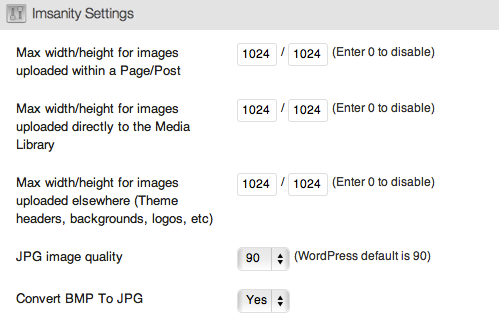
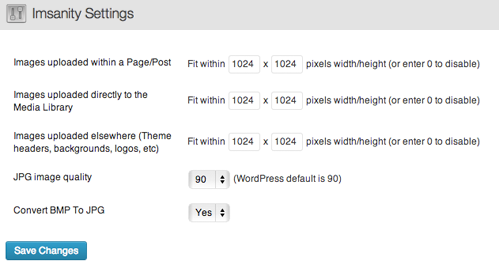
udpate to release 2.2.4
git-svn-id: https://plugins.svn.wordpress.org/imsanity/trunk@805159 b8457f37-d9ea-0310-8a92-e5e31aec5664

diff --git a/scripts/imsanity.js b/scripts/imsanity.js
@@ -2,6 +2,10 @@
  * imsanity admin javascript functions
  */
 
+// this must run inline so that the script is detected correctly
+var imsanity_scripts = document.getElementsByTagName("script");
+var imsanity_script_url = imsanity_scripts[imsanity_scripts.length-1].src;
+
 /**
  * Begin the process of re-sizing all of the checked images
  */
@@ -20,6 +24,16 @@ function imsanity_resize_images()
 	// start the recursion
 	imsanity_resize_next(images,0);
 }
+
+/**
+ * Detect the base url for the imsanity plugin folder
+ * @returns
+ */
+function imsanity_get_base_url()
+{
+	return imsanity_script_url.substring(0,imsanity_script_url.indexOf('scripts/imsanity.js'));
+}
+
 
 /** 
  * recursive function for resizing images
@@ -74,7 +88,7 @@ function imsanity_load_images(container_id)
 
 	var target = jQuery('#imsanity_target');
 
-	target.html('<div><image src="'+ imsanity_plugin_url  +'/images/ajax-loader.gif" style="margin-bottom: .25em; vertical-align:middle;" /> Examining existing attachments.  This may take a few moments...</div>');
+	target.html('<div><image src="'+ imsanity_get_base_url()  +'images/ajax-loader.gif" style="margin-bottom: .25em; vertical-align:middle;" /> Examining existing attachments.  This may take a few moments...</div>');
 
 	target.animate({height: [250,'swing']},500, function()
 	{

diff --git a/settings.php b/settings.php
@@ -216,26 +216,26 @@ function imsanity_network_settings()
 	</tr>
 
 	<tr valign="top">
-	<th scope="row"><?php _e("Max width/height for images uploaded within a Page/Post",'imsanity');?></th>
+	<th scope="row"><?php _e("Images uploaded within a Page/Post",'imsanity');?></th>
 	<td>
-		<input name="imsanity_max_height" value="<?php echo $settings->imsanity_max_height ?>" style="width: 45px;" />
-		/ <input name="imsanity_max_width" value="<?php echo $settings->imsanity_max_width ?>" style="width: 45px;" /><?php _e(" (Enter 0 to disable)",'imsanity'); ?>
+		Fit within <input name="imsanity_max_height" value="<?php echo $settings->imsanity_max_height ?>" style="width: 45px;" />
+		x <input name="imsanity_max_width" value="<?php echo $settings->imsanity_max_width ?>" style="width: 45px;" /> pixels width/height <?php _e(" (or enter 0 to disable)",'imsanity'); ?>
 	</td>
 	</tr>
 
 	<tr valign="top">
-	<th scope="row"><?php _e("Max width/height for images uploaded directly to the Media Library",'imsanity'); ?></th>
+	<th scope="row"><?php _e("Images uploaded directly to the Media Library",'imsanity'); ?></th>
 	<td>
-		<input name="imsanity_max_height_library" value="<?php echo $settings->imsanity_max_height_library ?>" style="width: 45px;" />
-		/ <input name="imsanity_max_width_library" value="<?php echo $settings->imsanity_max_width_library ?>" style="width: 45px;" /><?php _e(" (Enter 0 to disable)",'imsanity'); ?>
+		Fit within <input name="imsanity_max_height_library" value="<?php echo $settings->imsanity_max_height_library ?>" style="width: 45px;" />
+		x <input name="imsanity_max_width_library" value="<?php echo $settings->imsanity_max_width_library ?>" style="width: 45px;" /> pixels width/height <?php _e(" (or enter 0 to disable)",'imsanity'); ?>
 	</td>
 	</tr>
 
 	<tr valign="top">
-	<th scope="row"><?php _e("Max width/height for images uploaded elsewhere (Theme headers, backgrounds, logos, etc)",'imsanity'); ?></th>
+	<th scope="row"><?php _e("Images uploaded elsewhere (Theme headers, backgrounds, logos, etc)",'imsanity'); ?></th>
 	<td>
-		<input name="imsanity_max_height_other" value="<?php echo $settings->imsanity_max_height_other ?>" style="width: 45px;" />
-		/ <input name="imsanity_max_width_other" value="<?php echo $settings->imsanity_max_width_other ?>" style="width: 45px;" /><?php _e(" (Enter 0 to disable)",'imsanity'); ?>
+		Fit within <input name="imsanity_max_height_other" value="<?php echo $settings->imsanity_max_height_other ?>" style="width: 45px;" />
+		x <input name="imsanity_max_width_other" value="<?php echo $settings->imsanity_max_width_other ?>" style="width: 45px;" /> pixels width/height <?php _e(" (or enter 0 to disable)",'imsanity'); ?>
 	</td>
 	</tr>
 
@@ -542,29 +542,29 @@ function imsanity_settings_page_form()
 	<?php settings_fields( 'imsanity-settings-group' ); ?>
 		<table class="form-table">
 
-		<tr valign="top">
-		<th scope="row"><?php _e("Max width/height for images uploaded within a Page/Post",'imsanity'); ?></th>
-		<td><input type="text" style="width:40px;" name="imsanity_max_width" value="<?php echo get_option('imsanity_max_width',IMSANITY_DEFAULT_MAX_WIDTH); ?>" />
-		/ <input type="text" style="width:40px;" name="imsanity_max_height" value="<?php echo get_option('imsanity_max_height',IMSANITY_DEFAULT_MAX_HEIGHT); ?>" /><?php _e(" (Enter 0 to disable)",'imsanity'); ?>
+		<tr valign="middle">
+		<th scope="row"><?php _e("Images uploaded within a Page/Post",'imsanity'); ?></th>
+		<td>Fit within <input type="text" style="width:40px;" name="imsanity_max_width" value="<?php echo get_option('imsanity_max_width',IMSANITY_DEFAULT_MAX_WIDTH); ?>" />
+		x <input type="text" style="width:40px;" name="imsanity_max_height" value="<?php echo get_option('imsanity_max_height',IMSANITY_DEFAULT_MAX_HEIGHT); ?>" /> pixels width/height <?php _e(" (or enter 0 to disable)",'imsanity'); ?>
 		</td>
 		</tr>
 
-		<tr valign="top">
-		<th scope="row"><?php _e("Max width/height for images uploaded directly to the Media Library",'imsanity'); ?></th>
-		<td><input type="text" style="width:40px;" name="imsanity_max_width_library" value="<?php echo get_option('imsanity_max_width_library',IMSANITY_DEFAULT_MAX_WIDTH); ?>" />
-		/ <input type="text" style="width:40px;" name="imsanity_max_height_library" value="<?php echo get_option('imsanity_max_height_library',IMSANITY_DEFAULT_MAX_HEIGHT); ?>" /><?php _e(" (Enter 0 to disable)",'imsanity'); ?>
+		<tr valign="middle">
+		<th scope="row"><?php _e("Images uploaded directly to the Media Library",'imsanity'); ?></th>
+		<td>Fit within <input type="text" style="width:40px;" name="imsanity_max_width_library" value="<?php echo get_option('imsanity_max_width_library',IMSANITY_DEFAULT_MAX_WIDTH); ?>" />
+		x <input type="text" style="width:40px;" name="imsanity_max_height_library" value="<?php echo get_option('imsanity_max_height_library',IMSANITY_DEFAULT_MAX_HEIGHT); ?>" /> pixels width/height <?php _e(" (or enter 0 to disable)",'imsanity'); ?>
 		</td>
 		</tr>
 
-		<tr valign="top">
-		<th scope="row"><?php _e("Max width/height for images uploaded elsewhere (Theme headers, backgrounds, logos, etc)",'imsanity'); ?></th>
-		<td><input type="text" style="width:40px;" name="imsanity_max_width_other" value="<?php echo get_option('imsanity_max_width_other',IMSANITY_DEFAULT_MAX_WIDTH); ?>" />
-		/ <input type="text" style="width:40px;" name="imsanity_max_height_other" value="<?php echo get_option('imsanity_max_height_other',IMSANITY_DEFAULT_MAX_HEIGHT); ?>" /><?php _e(" (Enter 0 to disable)",'imsanity'); ?>
+		<tr valign="middle">
+		<th scope="row"><?php _e("Images uploaded elsewhere (Theme headers, backgrounds, logos, etc)",'imsanity'); ?></th>
+		<td>Fit within <input type="text" style="width:40px;" name="imsanity_max_width_other" value="<?php echo get_option('imsanity_max_width_other',IMSANITY_DEFAULT_MAX_WIDTH); ?>" />
+		x <input type="text" style="width:40px;" name="imsanity_max_height_other" value="<?php echo get_option('imsanity_max_height_other',IMSANITY_DEFAULT_MAX_HEIGHT); ?>" /> pixels width/height <?php _e(" (or enter 0 to disable)",'imsanity'); ?>
 		</td>
 		</tr>
 
 
-		<tr valign="top">
+		<tr valign="middle">
 		<th scope="row"><?php _e("JPG image quality",'imsanity'); ?></th>
 		<td><select name="imsanity_quality">
 			<?php
@@ -578,7 +578,7 @@ function imsanity_settings_page_form()
 		</select><?php _e(" (WordPress default is 90)",'imsanity'); ?></td>
 		</tr>
 
-		<tr valign="top">
+		<tr valign="middle">
 		<th scope="row"><?php _e("Convert BMP To JPG",'imsanity'); ?></th>
 		<td><select name="imsanity_bmp_to_jpg">
 			<option <?php if (get_option('imsanity_bmp_to_jpg',IMSANITY_DEFAULT_BMP_TO_JPG) == "1") {echo "selected='selected'";} ?> value="1"><?php _e("Yes",'imsanity'); ?></option>

diff --git a/imsanity.php b/imsanity.php
@@ -4,11 +4,11 @@ Plugin Name: Imsanity
 Plugin URI: http://verysimple.com/products/imsanity/
 Description: Imsanity stops insanely huge image uploads
 Author: Jason Hinkle
-Version: 2.2.3
+Version: 2.2.4
 Author URI: http://verysimple.com/
 */
 
-define('IMSANITY_VERSION','2.2.3');
+define('IMSANITY_VERSION','2.2.4');
 define('IMSANITY_SCHEMA_VERSION','1.1');
 
 define('IMSANITY_DEFAULT_MAX_WIDTH',1024);
@@ -102,6 +102,20 @@ function imsanity_handle_upload($params)
 		list($maxW,$maxH) = imsanity_get_max_width_height($source);
 
 		list($oldW, $oldH) = getimagesize( $oldPath );
+		
+		/* HACK: if getimagesize returns an incorrect value (sometimes due to bad EXIF data..?)
+		$img = imagecreatefromjpeg ($oldPath);
+		$oldW = imagesx ($img);
+		$oldH = imagesy ($img);
+		imagedestroy ($img);
+		//*/
+		
+		/* HACK: an animated gif may have different frame sizes.  to get the "screen" size
+		$data = ''; // TODO: convert file to binary
+		$header = unpack('@6/vwidth/vheight', $data ); 
+		$oldW = $header['width'];
+		$oldH = $header['width']; 
+		//*/
 
 		if (($oldW > $maxW && $maxW > 0) || ($oldH > $maxH && $maxH > 0))
 		{

diff --git a/ajax.php b/ajax.php
@@ -43,7 +43,7 @@ function imsanity_get_images()
 			inner join $wpdb->postmeta on $wpdb->posts.ID = $wpdb->postmeta.post_id and $wpdb->postmeta.meta_key = %s
 			where $wpdb->posts.post_type = %s
 			and $wpdb->posts.post_mime_type like %s
-			and $wpdb->posts.post_mime_type != 'image/bmp'",
+			and $wpdb->posts.post_mime_type != %s",
 		array('_wp_attachment_metadata', 'attachment', 'image%','image/bmp')
 	);
 
@@ -195,8 +195,8 @@ function imsanity_resize_image()
  */
 function imsanity_admin_javascript()
 {
-	echo "<script type=\"text/javascript\">var imsanity_plugin_url = '".plugins_url()."/imsanity';</script>\n";
-	echo "<script type=\"text/javascript\" src=\"".plugins_url()."/imsanity/scripts/imsanity.js?v=2\" ></script>\n";
+	wp_register_script( 'my_plugin_script', plugins_url('/imsanity/scripts/imsanity.js?v='.IMSANITY_VERSION), array('jquery'));
+	wp_enqueue_script( 'my_plugin_script' );
 }
 
 ?>
